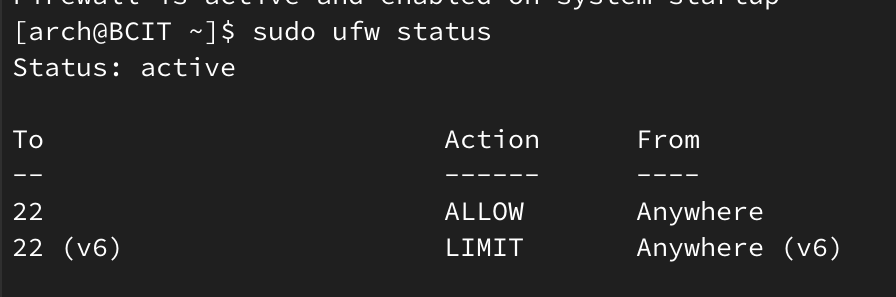
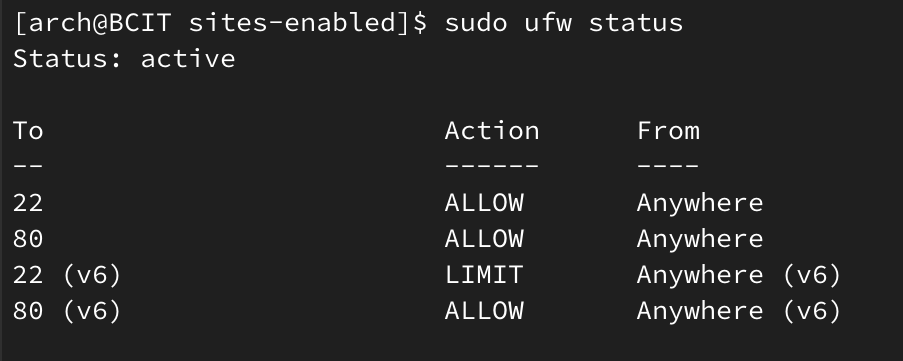
Added task 5 system information, and few edits

diff --git a/README.md b/README.md
@@ -179,7 +179,8 @@ After downloading Nginx, we can then start to edit the main file with the follow
 sudo nvim /etc/nginx/nginx.conf
 ```
 
-You want to change the user from the default to `webgen`, and it should look like the following image:
+You want to change the user from the default to `webgen` as well as uncomment it if it is commented ou and it should look like the following image:
+
 
 ![nginx-user](images/nginx-user.png)
 
@@ -337,7 +338,23 @@ sudo ufw limit ssh
 
 
 
-> **Note:** This setting helps to mitigate brute-force attacks by limiting the rate of SSH login attempts.
+>[!NOTE]
+> This setting helps to mitigate brute-force attacks by limiting the rate of SSH login attempts.
+
+```bash
+sudo ufw allow http
+```
+This command allows HTTP traffic through the firewall, enabling web traffic to reach your Nginx server.
+
+> **Note:** Allowing HTTP traffic is essential for serving web pages to users.
+
+
+
+
+
+
+This will display the current status and rules of the firewall, including the SSH rate limiting and HTTP allowance.
+
 
 After configuring the rate limiting, you can enable `ufw`:
 
@@ -350,27 +367,32 @@ To check the status of `ufw` and confirm that the rules are applied, use the fol
 ```bash
 sudo ufw status
 ```
-![ufw-status](image.png)
+![ufw-status](images/ufw-status.png)
+
 
 This will display the current status and rules of the firewall, including the SSH rate limiting.
+
+## Task 5: Verifying the Setup
+
+With everything configured, visit your droplet's IP address in the browser and take a screenshot of the system information page. The screenshot should clearly show your IP address and the system information page.
+
+![system-information](images/system-information.png)
+
+## Conclusion
+
+Congrats! You have successfully set up your server to generate and serve system information as a static HTML page!!!
 
 
 ## References
 
 - [Arch Linux Wiki: Users and Groups](https://wiki.archlinux.org/title/Users_and_groups)
-- [Arch Linux Wiki: Nginx Server Blocks](https://wiki.archlinux.org/title/Nginx#Server_blocks)
+- [Arch Linux Wiki: Example Adding a System User](https://wiki.archlinux.org/title/Users_and_groups#Example_adding_a_system_user)
 - [Arch Linux Wiki: Nginx](https://wiki.archlinux.org/title/Nginx)
+- [Arch Linux Wiki: Nginx Server Blocks](https://wiki.archlinux.org/title/Nginx#Server_blocks)
 - [Arch Linux Wiki: Running Nginx as a Specific User](https://wiki.archlinux.org/title/Nginx#Running_as_a_specific_user)
+- [Arch Linux Wiki: Systemd](https://wiki.archlinux.org/title/Systemd)
+- [Arch Linux Wiki: Systemd Timers](https://wiki.archlinux.org/title/Systemd/Timers)
+- [Arch Linux Wiki: Uncomplicated Firewall](https://wiki.archlinux.org/title/Uncomplicated_Firewall)
+- [Arch Linux Wiki: Rate Limiting with Ufw](https://wiki.archlinux.org/title/Uncomplicated_Firewall#Rate_limiting_with_ufw)
 
-https://wiki.archlinux.org/title/Users_and_groups#Example_adding_a_system_user
-
-https://wiki.archlinux.org/title/Users_and_groups
-
-https://wiki.archlinux.org/title/Systemd/Timers
-
-https://wiki.archlinux.org/title/Systemd
-
-https://wiki.archlinux.org/title/Uncomplicated_Firewall
-
-https://wiki.archlinux.org/title/Uncomplicated_Firewall#Rate_limiting_with_ufw
 
